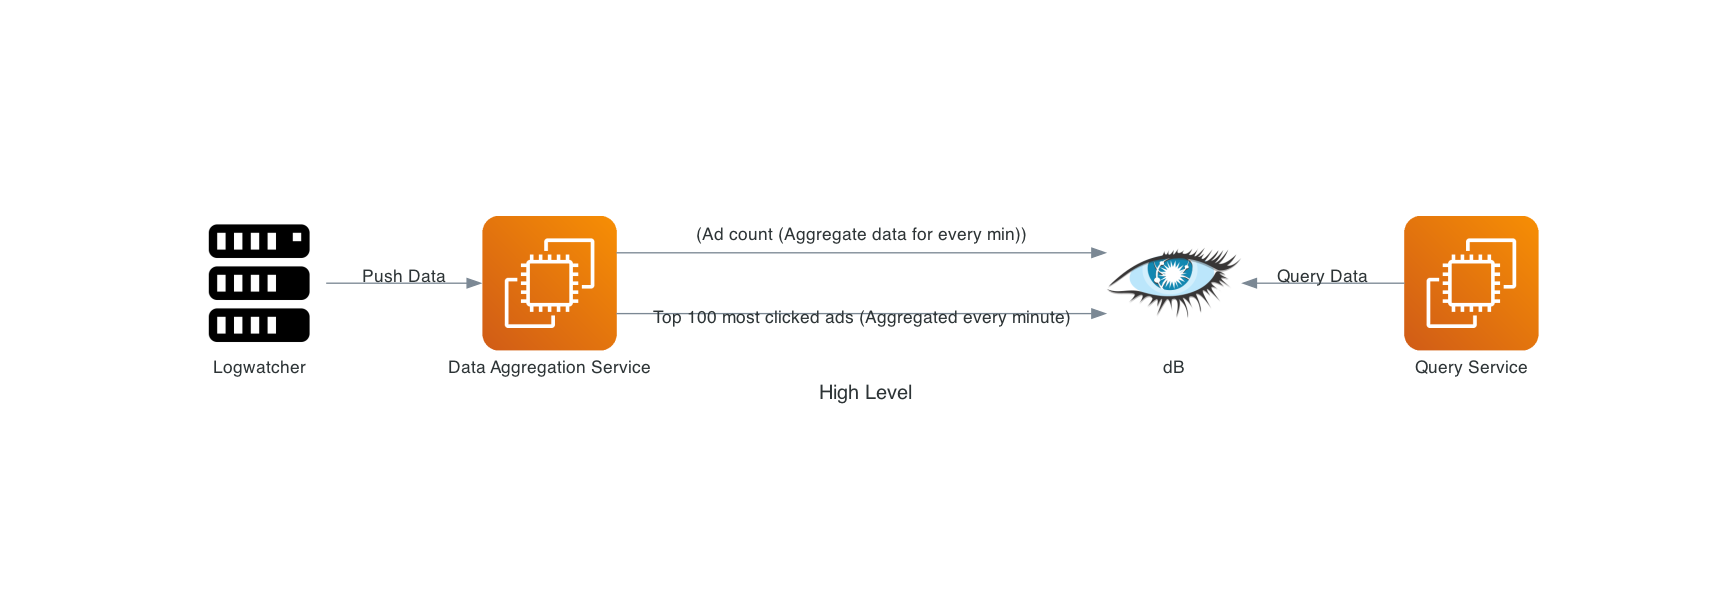
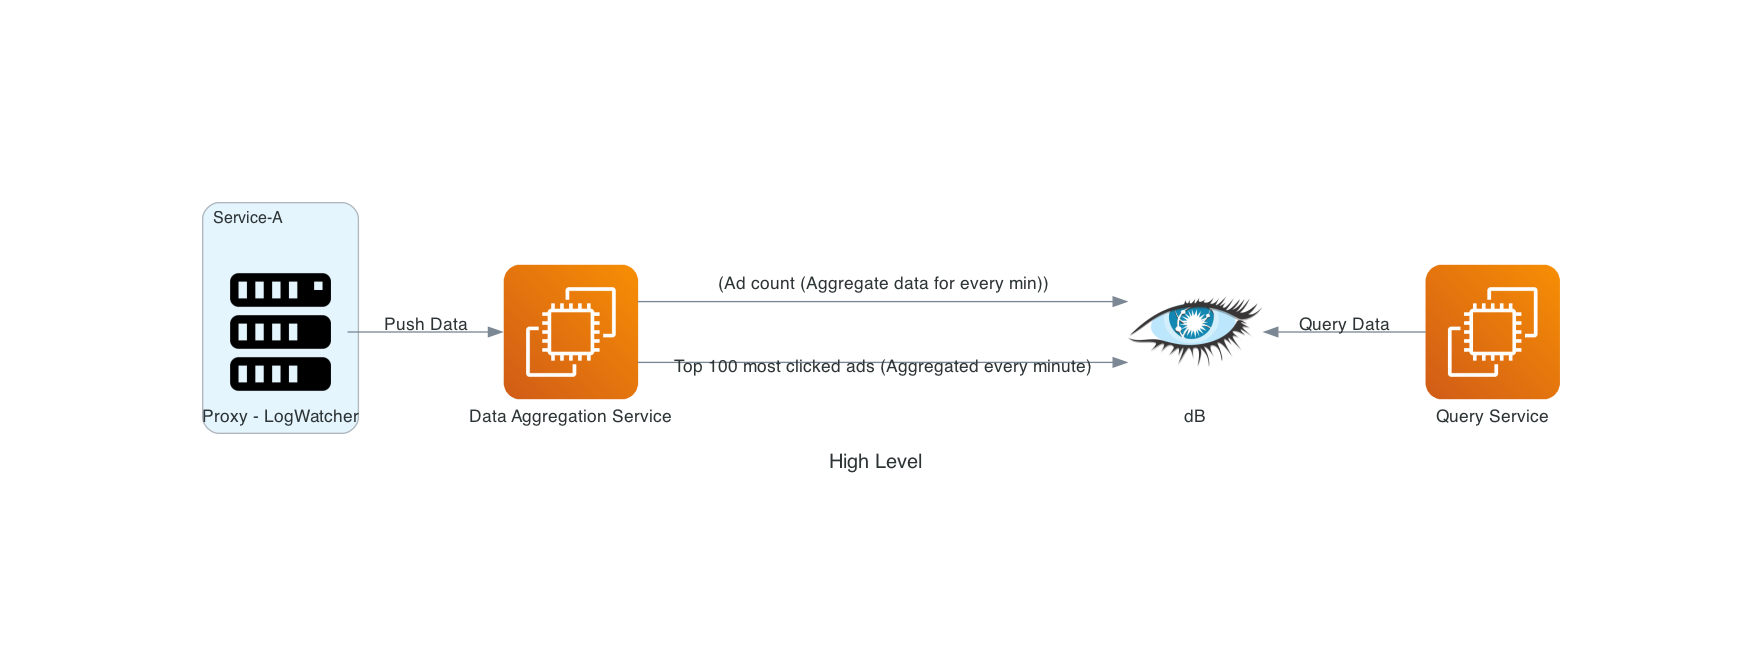
Your commit message

Changed region(s): [[0.0936, 0.301, 0.9047, 0.6622], [0.4679, 0.6321, 0.5303, 0.7224], [0.6551, 0.602, 0.6863, 0.6321]]

diff --git a/designAdClickAggregationSystem/highLevel.py b/designAdClickAggregationSystem/highLevel.py
@@ -6,7 +6,8 @@ from diagrams import Cluster, Diagram, Edge
 
 with Diagram("High Level", show=False):
 
-    logwatcher = Server("Logwatcher")
+    with Cluster("Service-A"):
+        logwatcher = Server("Proxy - LogWatcher")
     data_aggregation = EC2("Data Aggregation Service")
     query_service = EC2("Query Service")
 
